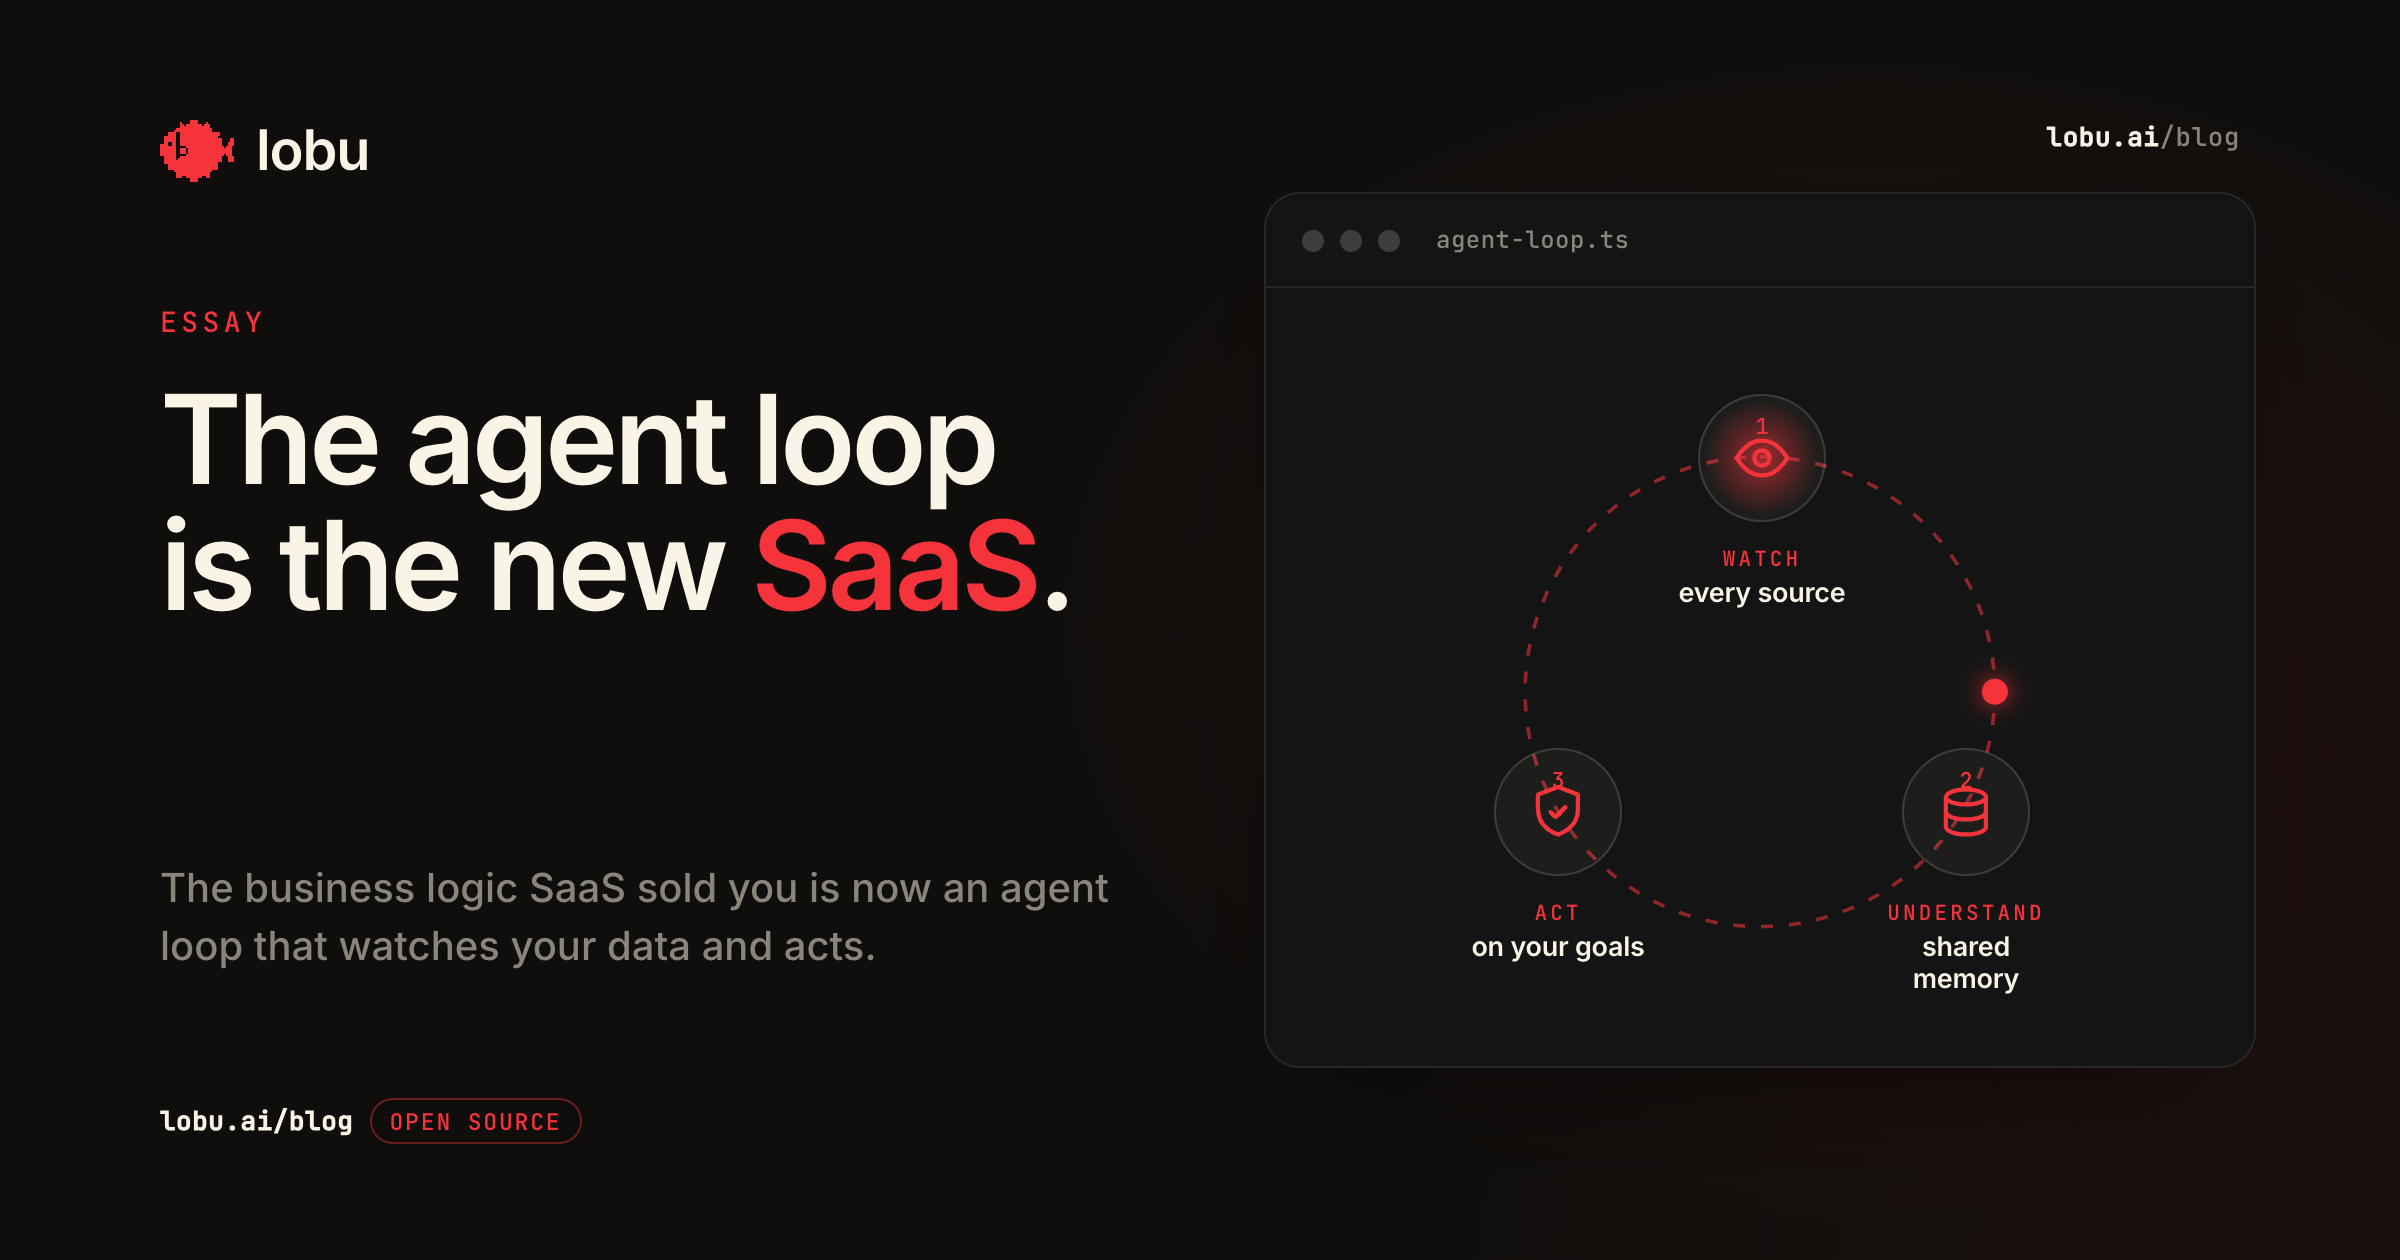
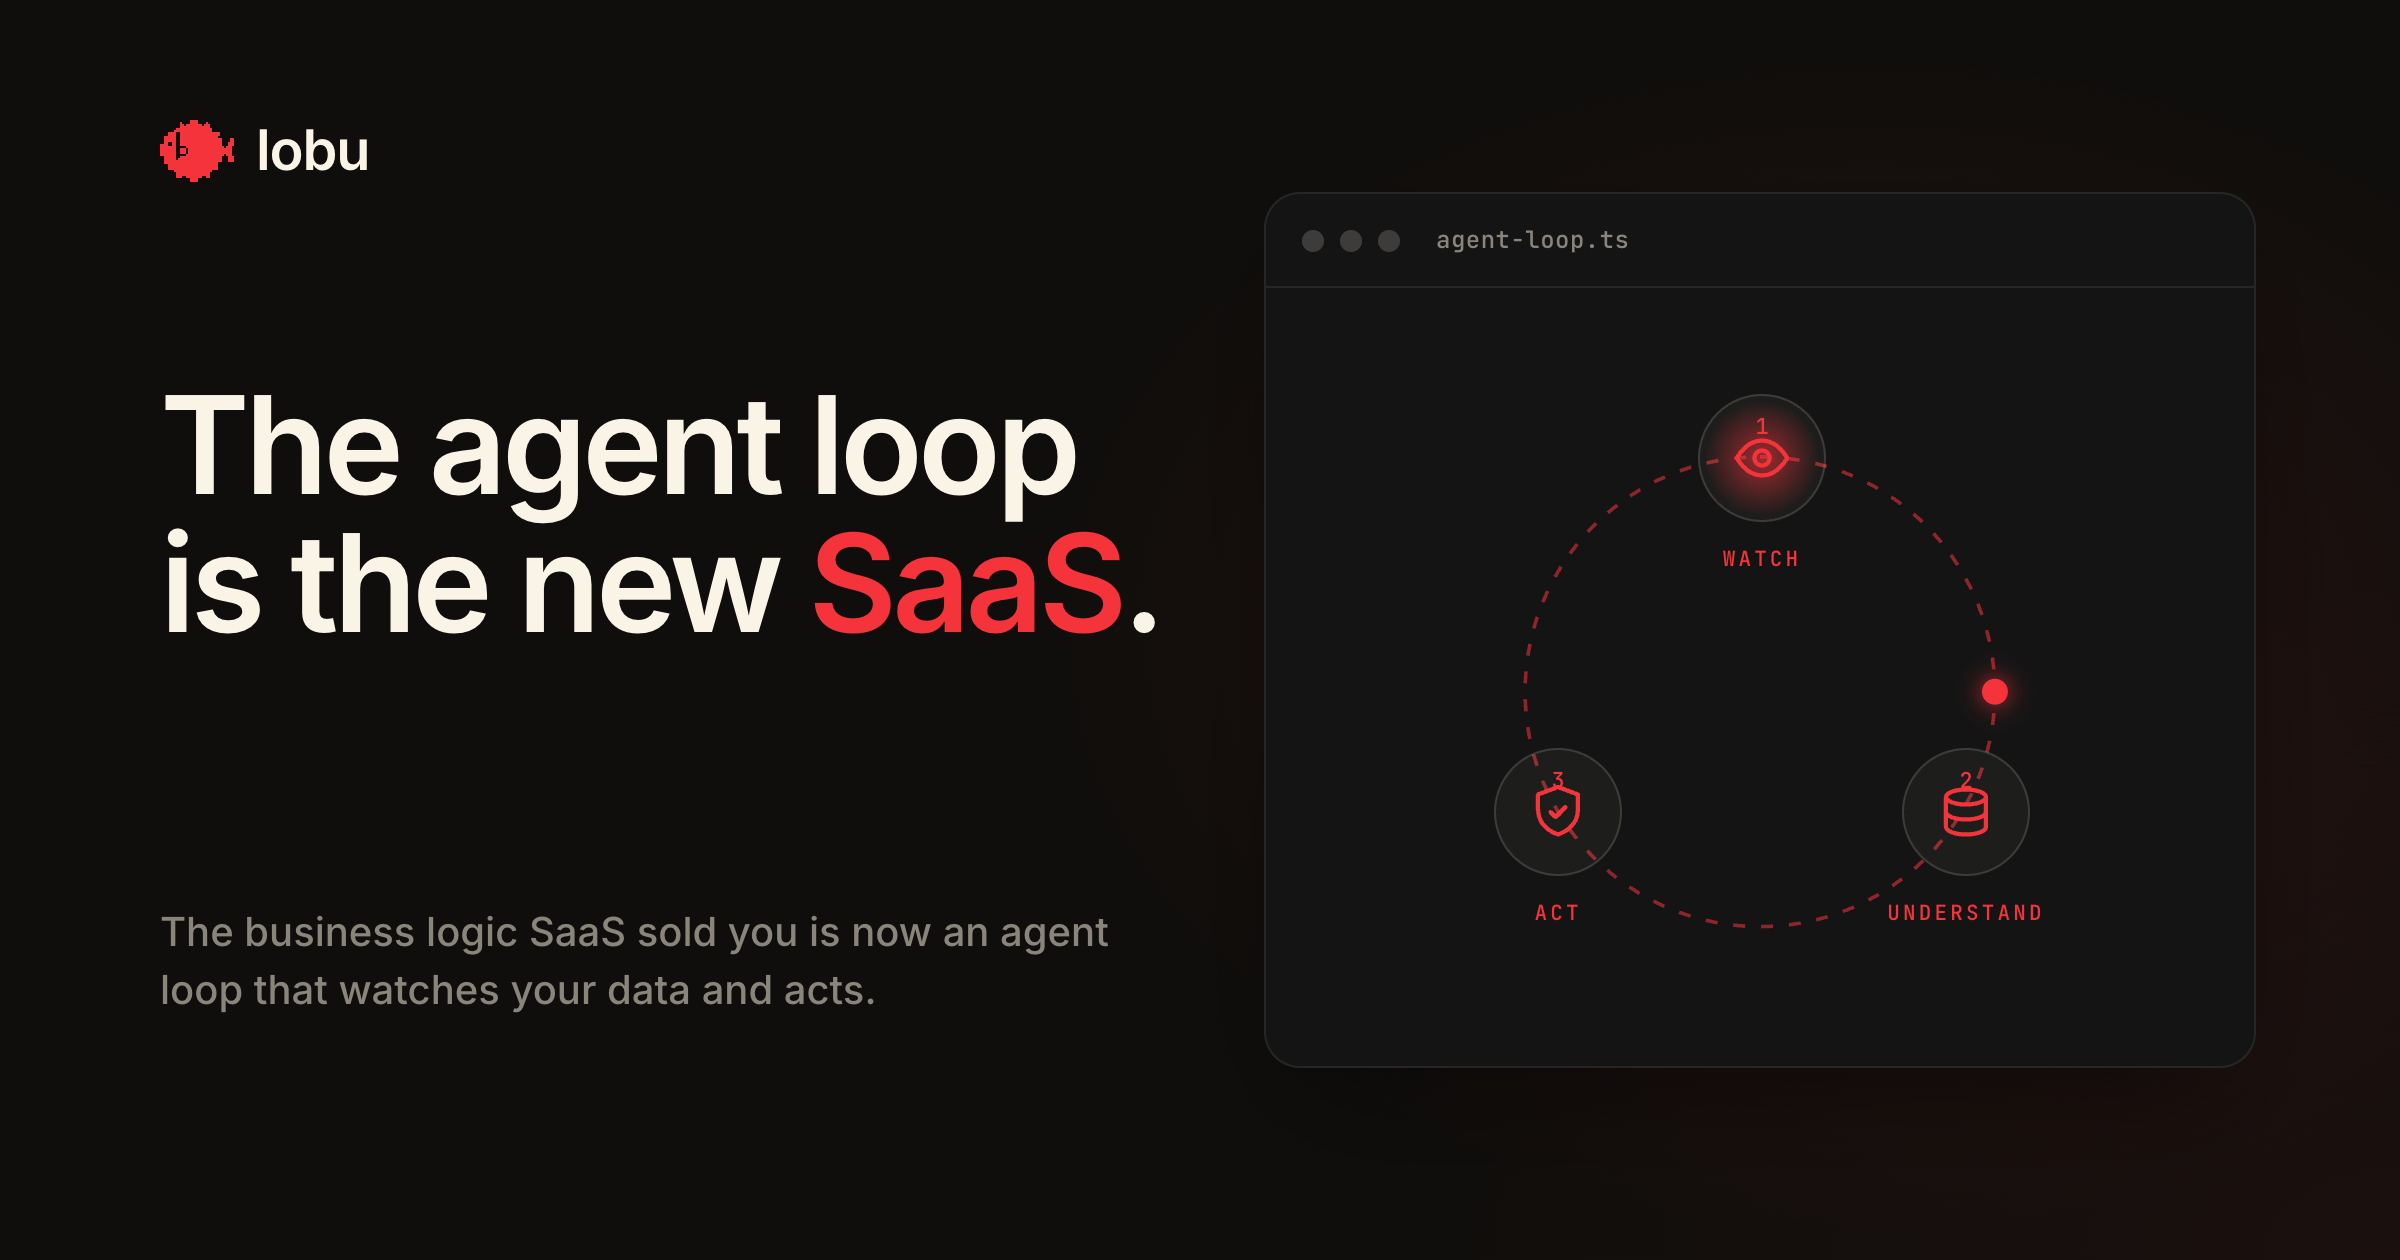
chore(og-assets): minimal OG card — drop crumb/kicker/byline and node sub-labels, larger headline

diff --git a/og-assets/scene-blog/index.html b/og-assets/scene-blog/index.html
@@ -19,7 +19,7 @@
     --muted: #8a857b;       /* muted warm */
     --red: #f5333a;         /* accent */
     --code-bg: #141414;     /* terminal/code surface */
-    --code-text: #f9f4e6;   /* warm code text */
+   
     --code-dim: #8a857b;    /* code comment */
   }
 
@@ -39,23 +39,12 @@
   .brand .mark { width:37px; height:31px; display:block; }
   .brand .word { font-weight:600; font-size:28px; letter-spacing:-0.02em; color:var(--text); }
 
-  .crumb { position:absolute; top:60px; right:80px; font-family:"JetBrains Mono", ui-monospace, monospace;
-    font-size:13px; font-weight:500; letter-spacing:0.02em; color:var(--muted); }
-  .crumb b { color:var(--text); font-weight:600; }
-
   /* ── headline column ── */
-  .kicker { position:absolute; top:152px; left:80px; font-family:"JetBrains Mono", ui-monospace, monospace;
-    font-size:14px; font-weight:500; letter-spacing:0.16em; text-transform:uppercase; color:var(--red); }
   h1 { position:absolute; top:188px; left:80px; width:560px; text-align:left;
-    font-size:62px; font-weight:600; letter-spacing:-0.035em; line-height:1.02; color:var(--text); }
+    font-size:68px; font-weight:600; letter-spacing:-0.035em; line-height:1.02; color:var(--text); }
   h1 .red { color:var(--red); }
-  .sub { position:absolute; top:430px; left:80px; width:480px; text-align:left;
+  .sub { position:absolute; top:452px; left:80px; width:480px; text-align:left;
     font-size:20px; font-weight:500; line-height:1.45; color:var(--muted); }
-  .byline { position:absolute; bottom:58px; left:80px; font-family:"JetBrains Mono", ui-monospace, monospace;
-    font-size:13px; font-weight:500; letter-spacing:0.02em; color:var(--muted); }
-  .byline b { color:var(--text); font-weight:600; }
-  .byline .pill { display:inline-block; margin-left:8px; padding:3px 9px; border:1px solid rgba(245,51,58,0.40);
-    border-radius:999px; font-size:11.5px; letter-spacing:0.08em; text-transform:uppercase; color:var(--red); }
 
   /* ── RIGHT: terminal panel framing the orbit ── */
   .panel { position:absolute; right:72px; top:96px; width:496px; height:438px; background:var(--code-bg);
@@ -84,7 +73,6 @@
   .nl { margin-top:11px; }
   .nl .e { font-family:"JetBrains Mono", ui-monospace, monospace; font-size:10.5px; font-weight:500;
     letter-spacing:0.15em; color:var(--red); }
-  .nl .d { font-size:13.5px; font-weight:600; letter-spacing:-0.01em; margin-top:2px; color:var(--code-text); }
 </style></head>
 <body>
 <div id="stage">
@@ -95,13 +83,10 @@
     <img class="mark" src="./assets/lobu-mark.svg" alt="" />
     <span class="word">lobu</span>
   </div>
-  <div class="crumb"><b>lobu.ai</b>/blog</div>
 
   <!-- headline -->
-  <div class="kicker">Essay</div>
   <h1>The agent loop<br/>is the new <span class="red">SaaS</span>.</h1>
   <div class="sub">The business logic SaaS sold you is now an agent loop that watches your data and acts.</div>
-  <div class="byline"><b>lobu.ai/blog</b><span class="pill">open source</span></div>
 
   <!-- RIGHT: terminal panel with orbit -->
   <div class="panel">
@@ -127,7 +112,7 @@
           <svg viewBox="0 0 24 24" fill="none" stroke="#f5333a" stroke-width="1.7" stroke-linecap="round" stroke-linejoin="round"><path d="M2 12s3.5-7 10-7 10 7 10 7-3.5 7-10 7S2 12 2 12Z"/><circle cx="12" cy="12" r="3"/></svg>
           <span class="glow" id="g1"></span>
         </div>
-        <div class="nl"><div class="e">WATCH</div><div class="d">every source</div></div>
+        <div class="nl"><div class="e">WATCH</div></div>
       </div>
       <!-- UNDERSTAND lower-right (350,309) -->
       <div class="node" style="left:350px; top:309px;">
@@ -135,7 +120,7 @@
           <svg viewBox="0 0 24 24" fill="none" stroke="#f5333a" stroke-width="1.7" stroke-linecap="round" stroke-linejoin="round"><ellipse cx="12" cy="6" rx="8" ry="3"/><path d="M4 6v12c0 1.66 3.58 3 8 3s8-1.34 8-3V6"/><path d="M4 12c0 1.66 3.58 3 8 3s8-1.34 8-3"/></svg>
           <span class="glow" id="g2"></span>
         </div>
-        <div class="nl"><div class="e">UNDERSTAND</div><div class="d">shared memory</div></div>
+        <div class="nl"><div class="e">UNDERSTAND</div></div>
       </div>
       <!-- ACT lower-left (146,309) -->
       <div class="node" style="left:146px; top:309px;">
@@ -143,7 +128,7 @@
           <svg viewBox="0 0 24 24" fill="none" stroke="#f5333a" stroke-width="1.7" stroke-linecap="round" stroke-linejoin="round"><path d="M12 2 20 5v6c0 5-3.5 8.5-8 10-4.5-1.5-8-5-8-10V5Z"/><path d="M9 12l2 2 4-4"/></svg>
           <span class="glow" id="g3"></span>
         </div>
-        <div class="nl"><div class="e">ACT</div><div class="d">on your goals</div></div>
+        <div class="nl"><div class="e">ACT</div></div>
       </div>
     </div>
   </div>
